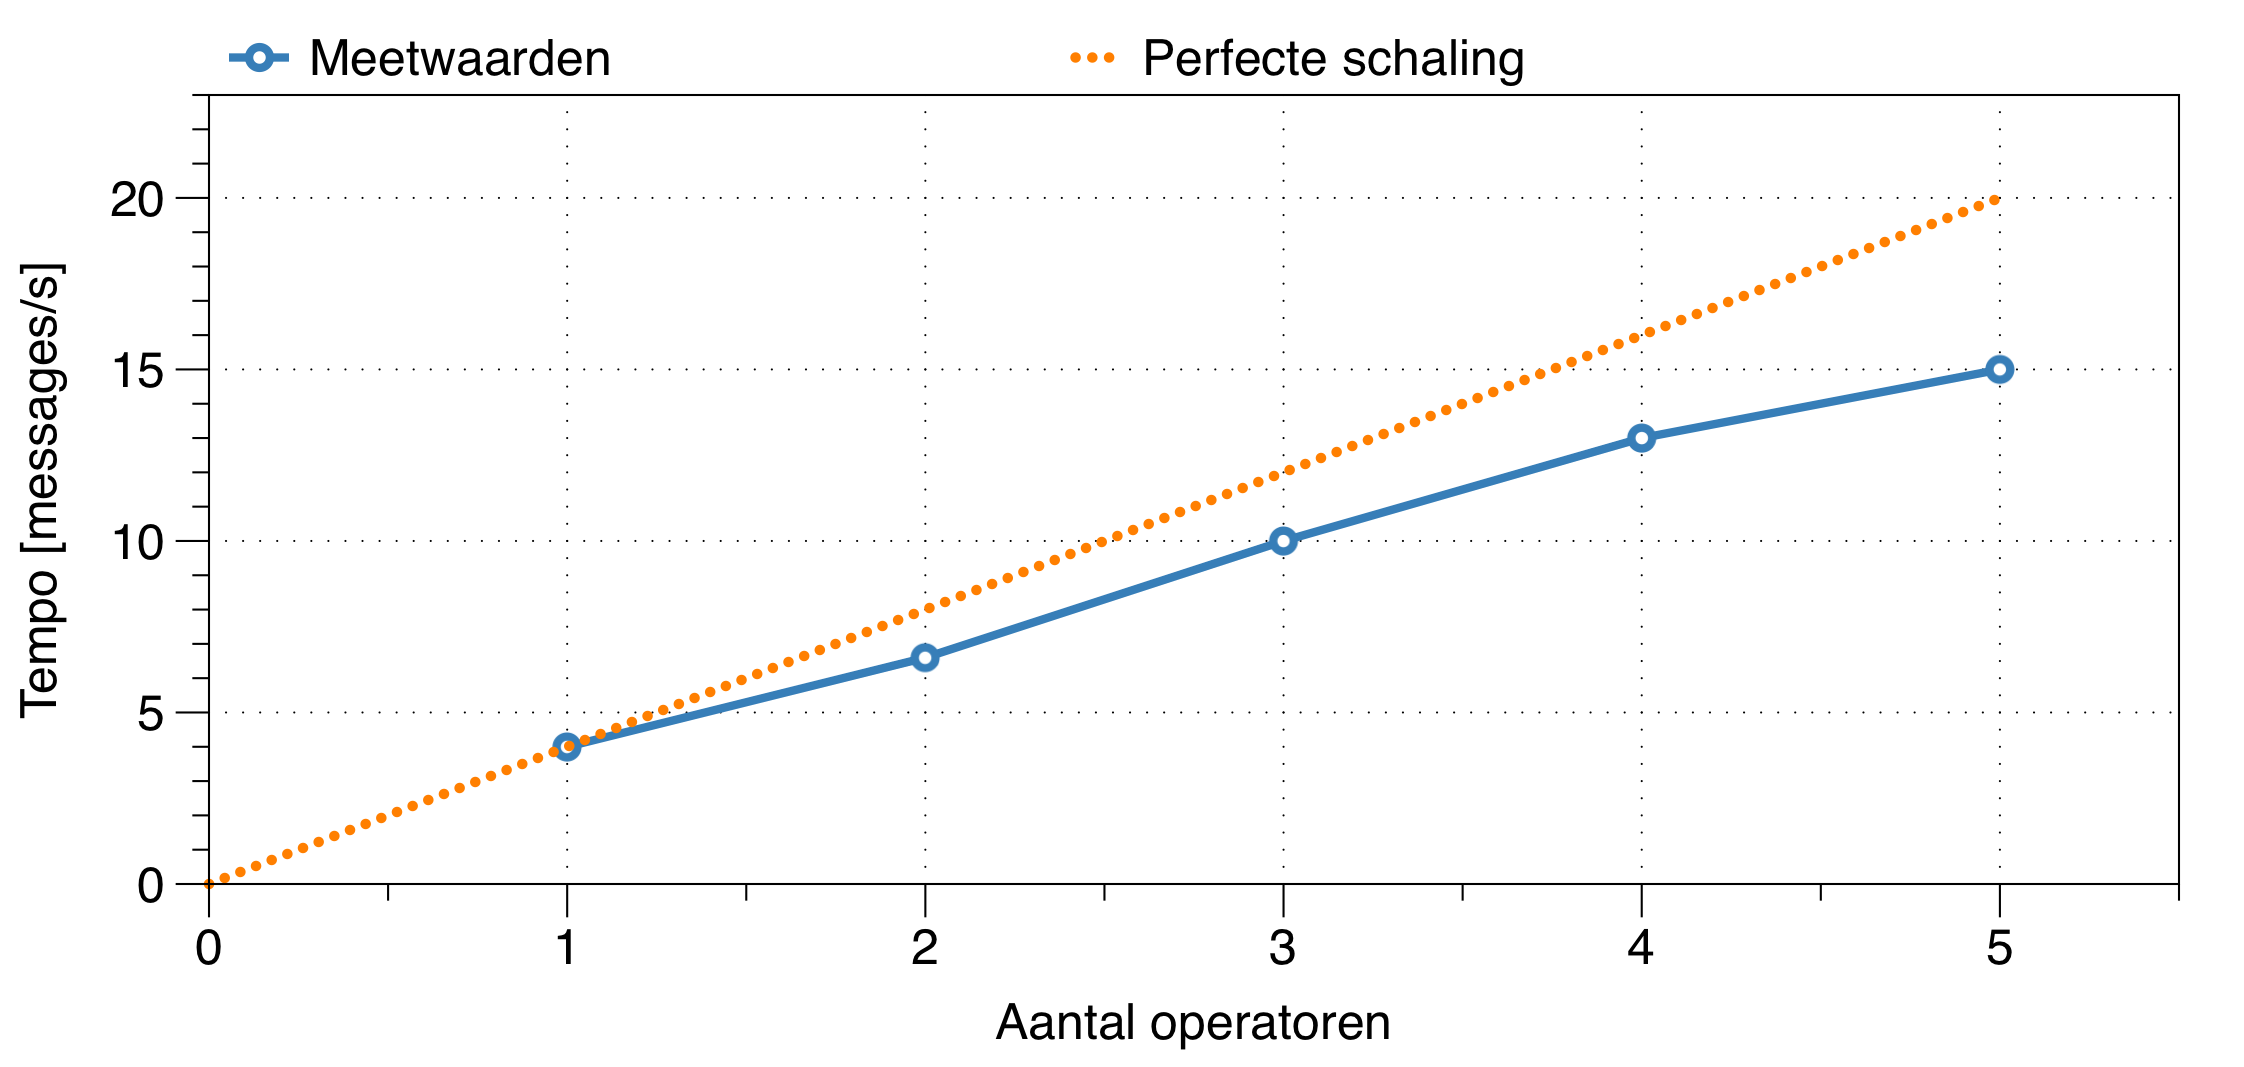
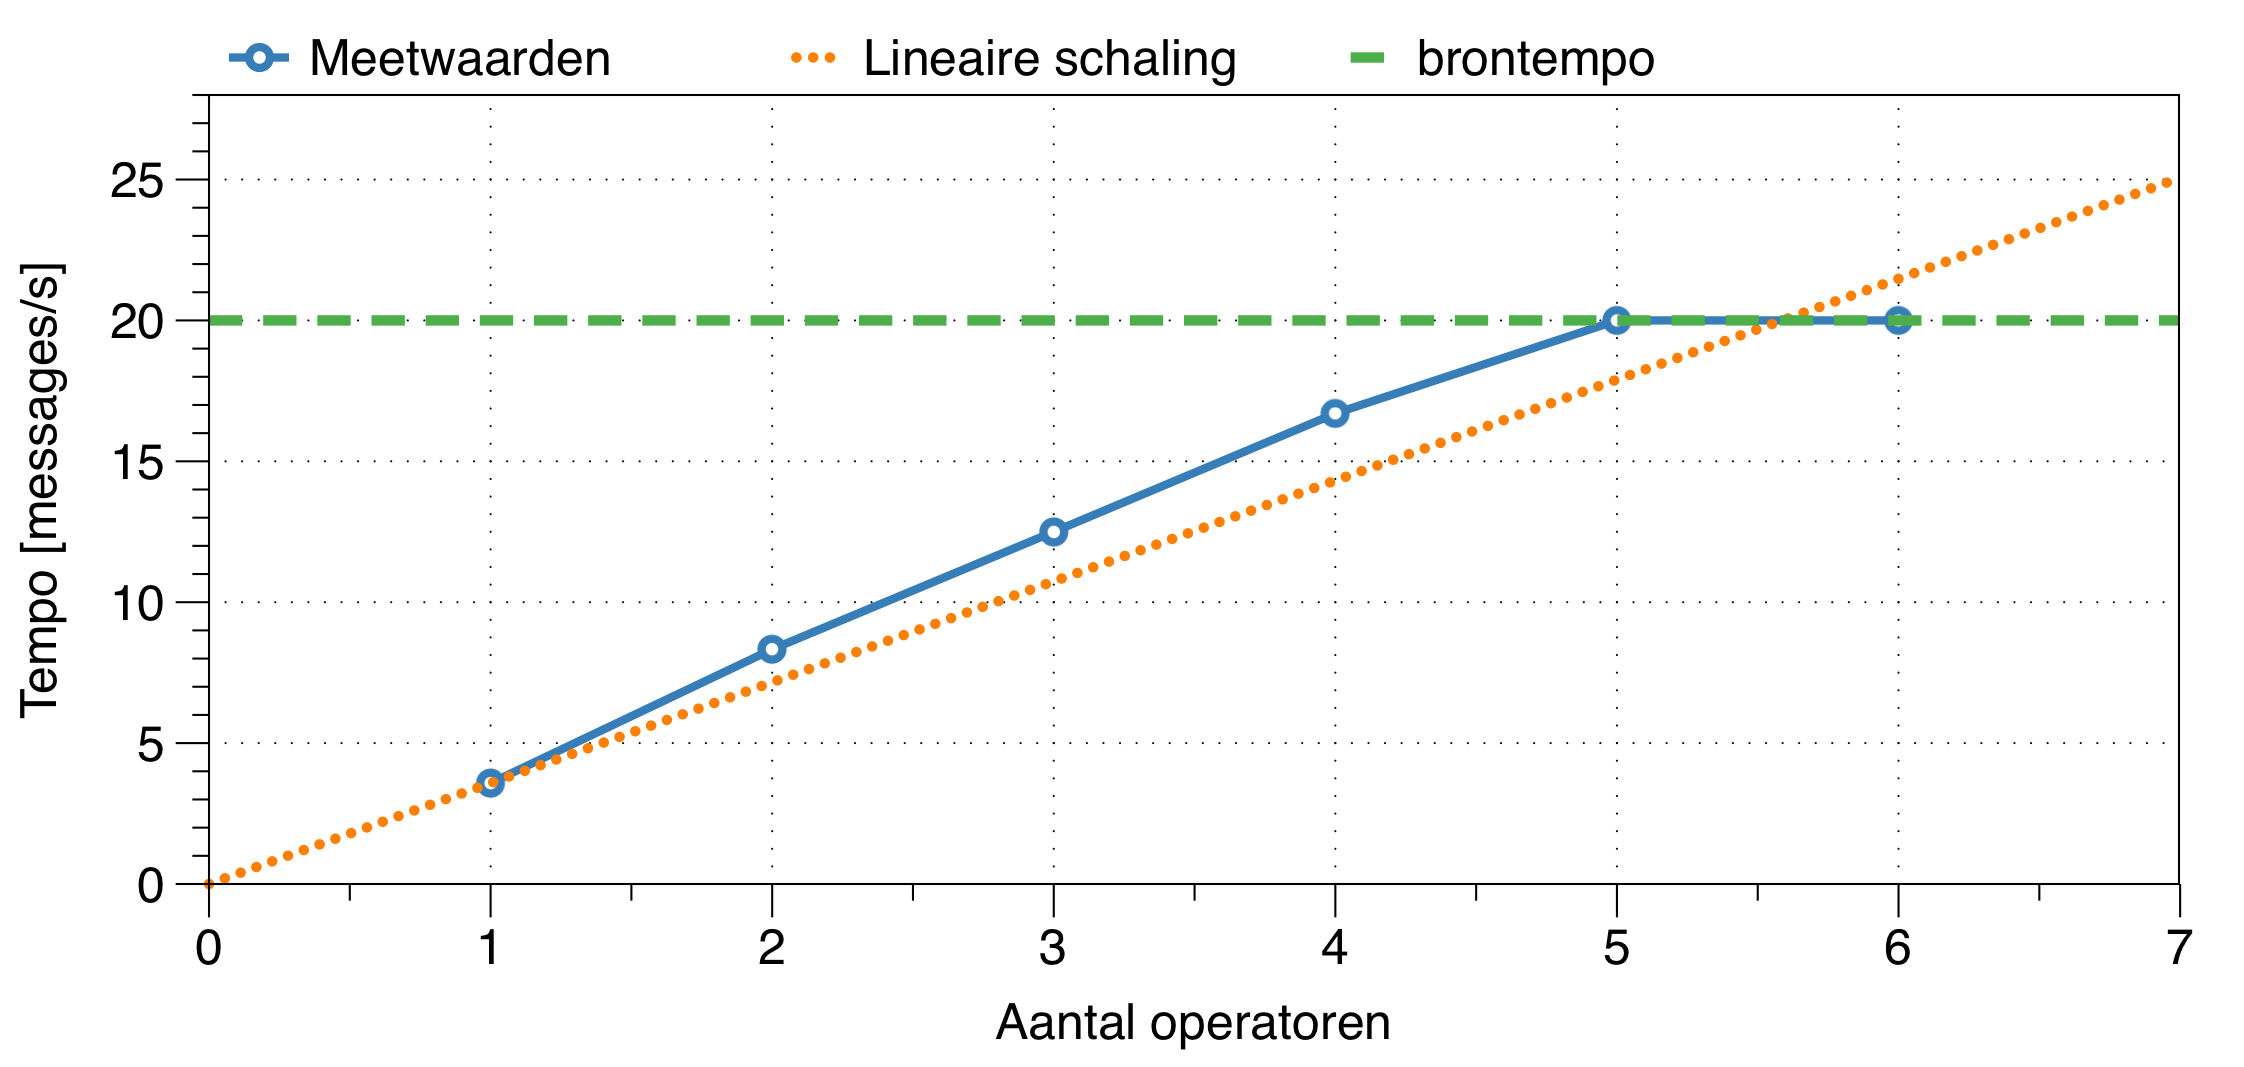
added data analysis for report

diff --git a/reports/03/main.tex b/reports/03/main.tex
@@ -32,7 +32,7 @@
 %\titlespacing*\subsection{0pt}{12pt plus 4pt minus 2pt}{0pt plus 2pt minus 2pt}
 %\titlespacing*\subsubsection{0pt}{12pt plus 4pt minus 2pt}{0pt plus 2pt minus 2pt}
 
-% Uncomment the next line to use the harvard package with bibtex
+% Uncomment the next line to use the harvard package with bibtex`
 %\usepackage[abbr]{harvard}
 
 % This command determines the leading (vertical space between lines) in draft mode
@@ -177,6 +177,12 @@ docker run
 \end{minted}
 
 \section{Resultaten}
+\begin{figure}[bt]
+    \centering
+    \includegraphics[width=0.45\textwidth]{metingen}
+    \caption{Meetwaarden met lineaire schaling.}\label{fig:metingen}
+\end{figure}
+
 \begin{figure*}[htb]
     \centering
     \includegraphics[width=0.9\textwidth]{main_1_2}
@@ -184,11 +190,6 @@ docker run
 \end{figure*}
 Om het systeem te evalueren, wordt het aantal operatoren dat getallen factoriseert geschaald. 
 
-\begin{figure}[htb]
-    \centering
-    \includegraphics[width=0.45\textwidth]{metingen}
-    \caption{Meetwaarden met perfect, lineaire schaling.}\label{fig:metingen}
-\end{figure}
 
 \section{Besluit}
 \onecolumn
